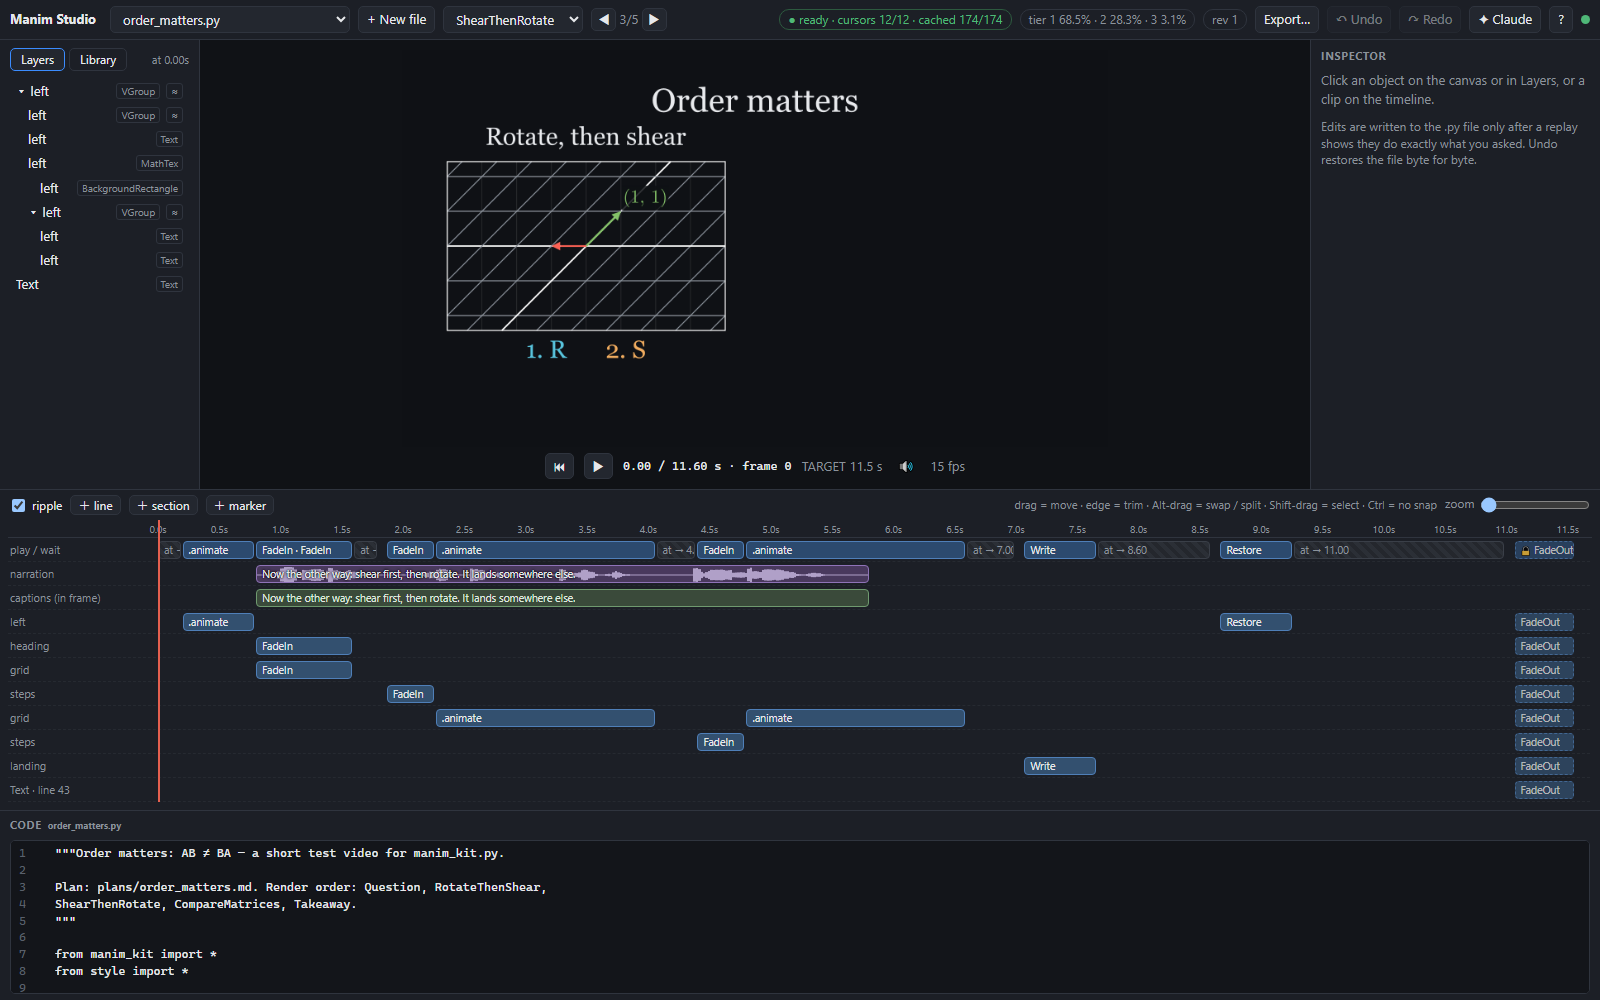
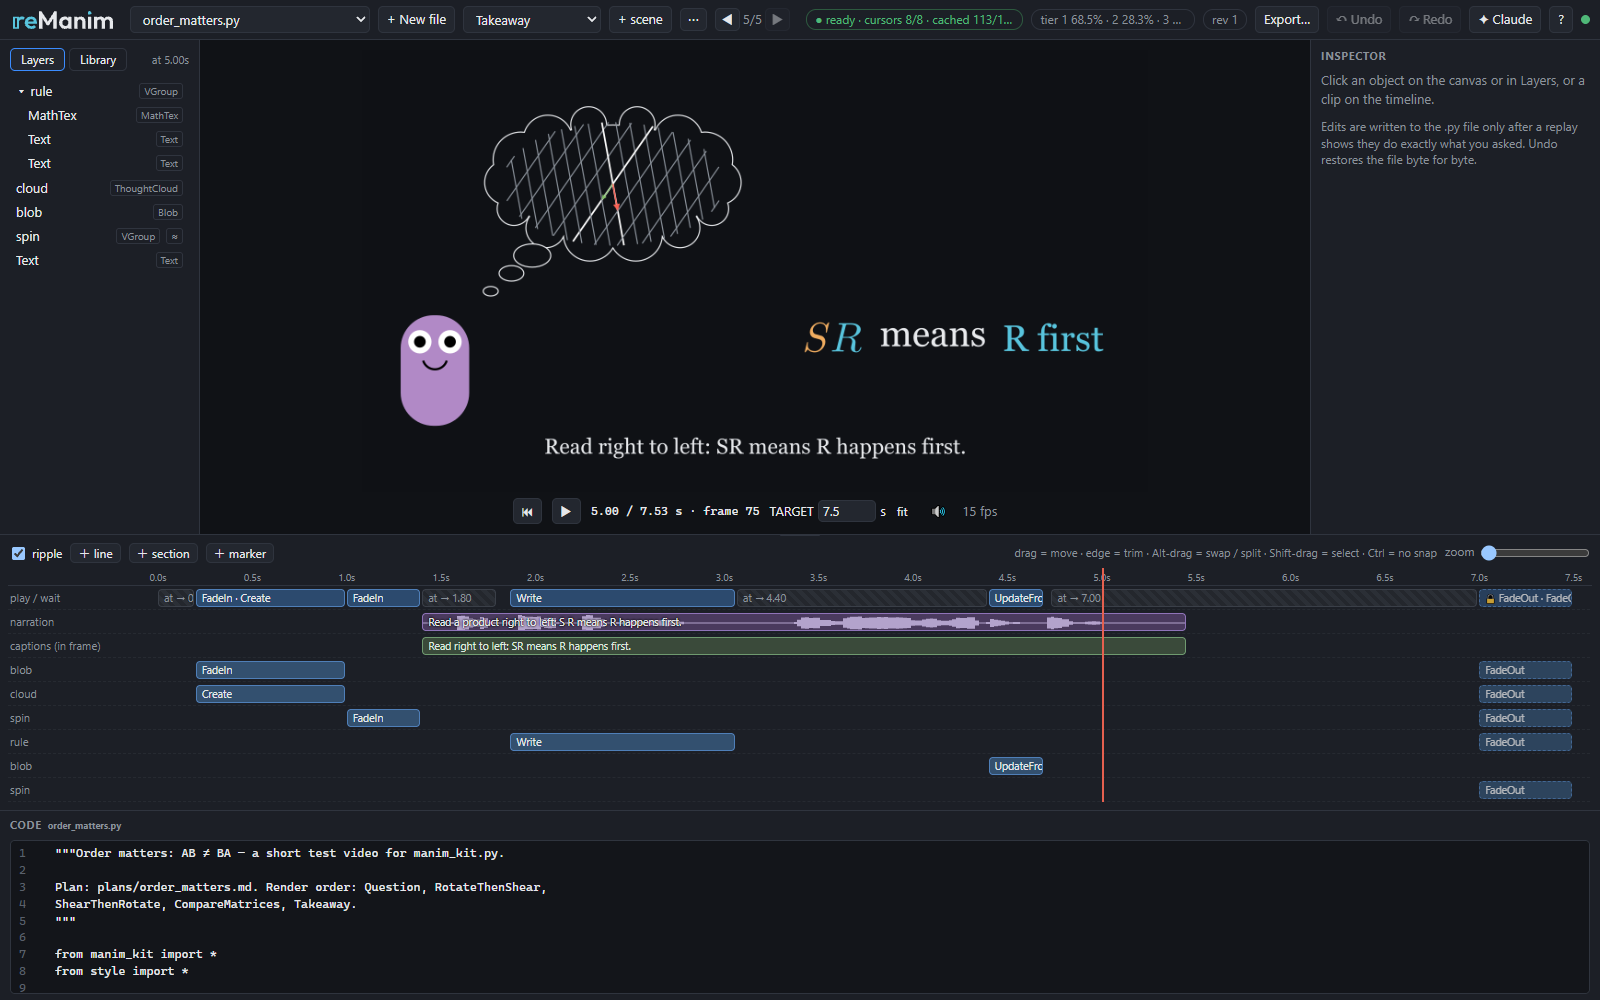
Prepare for a public release: licence, README, no machine names
- LICENSE (MIT) and NOTICE.md: eola_common.py and eola_preview.py stay
  CC BY-NC-SA 4.0 (adapted from 3b1b/videos); the gallery corpus is MIT
  from the Manim Community
- README.md rewritten as the front page: what reManim is, requirements,
  setup from a clone, use, updating, licence
- serve.py reads this PC's tailnet name from studio/data/tailnet_name
  (ignored) instead of the source; without it the server is local only
- studio/hub.json is ignored; studio/hub.example.json is the template
- launch.json: drop the tailnet configuration
- studio/README.md: generic Tailscale steps, the stale "prints a link with
  a token" line fixed, a new screenshot with the reManim name

diff --git a/studio/scripts/serve.py b/studio/scripts/serve.py
@@ -3,14 +3,15 @@
     .venv/Scripts/python studio/scripts/serve.py start | stop | restart | status [--json]
 
 start   builds the UI if web/src is newer than the build, starts the server
-        (port 8770, this PC only, plus the tailnet name through `tailscale serve`
-        with the token kept in studio/data/access_token), and exits once it answers.
+        (port 8770, this PC only; plus the tailnet name in studio/data/tailnet_name,
+        if that file exists, through `tailscale serve`, with the token kept in
+        studio/data/access_token), and exits once it answers.
 stop    ends the server this script started (its pid, checked against what the
         server says about itself), with its engine processes.
 status  one line of JSON: {"running", "ours", "pid", "since", "message"}.
 
-The server's output goes to studio/data/server.log. Follows the hub contract in
-D:/Projects/AI Code Projects/Home Server Hub/docs/APP_CONTRACT.md.
+The server's output goes to studio/data/server.log. Follows the Home Server Hub's
+app contract (studio/hub.example.json shows the entry).
 """
 
 from __future__ import annotations
@@ -32,9 +33,18 @@ PIDFILE = DATA / "server.pid"
 LOG = DATA / "server.log"
 TOKEN = DATA / "access_token"
 PORT = 8770
-# the name `tailscale serve --https=8770` answers to; other machines need the token
-TAILNET_NAME = "your-pc.your-tailnet.ts.net"
+# one line: the name `tailscale serve --https=8770` answers to, e.g.
+# my-pc.tail1234.ts.net (kept out of git); other machines need the token
+TAILNET_FILE = DATA / "tailnet_name"
 HEALTH = f"http://127.0.0.1:{PORT}/api/health"
+
+
+def tailnet_name() -> str | None:
+    try:
+        name = TAILNET_FILE.read_text(encoding="utf-8-sig").strip()
+    except OSError:
+        return None
+    return name or None
 
 
 def say(*a):
@@ -146,8 +156,12 @@ def start() -> int:
     DATA.mkdir(parents=True, exist_ok=True)
     if LOG.exists() and LOG.stat().st_size > 5 * 1024 * 1024:
         LOG.replace(LOG.with_suffix(".log.1"))
-    cmd = [sys.executable, "-m", "studio.server", "--port", str(PORT),
-           "--allow-host", TAILNET_NAME, "--token-file", str(TOKEN)]
+    cmd = [sys.executable, "-m", "studio.server", "--port", str(PORT), "--token-file", str(TOKEN)]
+    name = tailnet_name()
+    if name:
+        cmd += ["--allow-host", name]
+    else:
+        say(f"No {TAILNET_FILE.name} in studio/data: this PC only")
     env = {**os.environ, "PYTHONIOENCODING": "utf-8", "PYTHONUNBUFFERED": "1"}
     env.pop("HUB_RUN", None)
     flags = subprocess.CREATE_NO_WINDOW | subprocess.CREATE_NEW_PROCESS_GROUP

diff --git a/README.md b/README.md
@@ -1,28 +1,133 @@
-# Manim workspace
+<h1><picture><source media="(prefers-color-scheme: dark)" srcset="studio/docs/img/wordmark-dark.svg"><img src="studio/docs/img/wordmark.svg" alt="reManim" height="56"></picture></h1>
 
-Math and explainer animations made with Manim Community Edition 0.22.1, plus
-the tools built around them. Working rules for Claude are in `CLAUDE.md`.
+**A motion editor for [Manim Community Edition](https://www.manim.community/)
+scenes, where the `.py` file stays the source of truth.** You see the
+real Manim frame and a timeline of every `play()` and `wait()`. Drag,
+retime, recolour or add things, and each change is written back into
+your code as a small, readable edit, checked by re-running the scene
+before anything is saved.
 
-## Map
+![reManim with a scene open](studio/docs/img/studio.png)
+
+This repository holds reManim (in [`studio/`](studio/)) and the Manim
+workspace it was built in: a few explainer videos, a toolkit for
+narrated scenes, and the check tools used to make them. Most of it was
+written with [Claude Code](https://claude.com/claude-code), following the
+working rules in [`CLAUDE.md`](CLAUDE.md).
+
+> **Status:** a personal project. It runs on **Windows** only for now
+> (paths, the video tools and the launcher assume it). Expect rough
+> edges, and expect things to change.
+
+## What's here
 
 | Path | What it is |
 |---|---|
-| `*.py` in this folder | The videos: `pythagoras.py`, `order_matters.py`, `gradient_descent.py`, `eola_preview.py` (recreation study), `test_scene.py` (install smoke test) |
-| `style.py` | Shared palette, text sizes, screen regions |
-| `manim_kit.py` | Reusable parts: timed narration, captions, Blob, bubbles, clipped grids |
-| `eola_common.py` | Recreation-only layer (CC BY-NC-SA) |
-| `edge_tts_service.py` | Text-to-speech service for narration |
-| `preview_server.py` | Live preview with code-linked timeline, for AI-driven work |
-| `tools/` | Layout check, frame sheets, audio check, joining, comparison, timeline recording |
-| `plans/` | One plan per video |
-| `studio/` | The reManim GUI project (motion editor). Start with `studio/PLAN.md` |
-| `docs/` | Write-ups of what we learned |
-| `reports/`, `research_notes/` | Research surveys and the notes behind them |
-| `reference/` | Downloaded reference material for the recreation |
-| `media/` | Everything rendered (videos, caches, review frames). Don't wipe it |
+| [`studio/`](studio/) | **reManim**, the editor: a Python server (aiohttp) and a React UI. [Its README](studio/README.md) covers use; [`PLAN.md`](studio/PLAN.md) covers the design |
+| `*.py` in this folder | The videos: `pythagoras.py`, `order_matters.py`, `gradient_descent.py`, `euler_identity.py`, `odd_squares.py`, `eola_preview.py` (a recreation study), `test_scene.py` (install smoke test) |
+| `manim_kit.py` | Reusable parts: an absolute timeline with non-blocking narration and captions, a "Blob" character, speech bubbles, clipped grids for linear maps |
+| `style.py` | Shared palette, text sizes and screen regions |
+| `edge_tts_service.py` | Narration through Microsoft Edge's online neural voices, for [manim-voiceover](https://github.com/ManimCommunity/manim-voiceover) |
+| `preview_server.py` | A live preview that re-renders on save, with a timeline linked to the code |
+| `tools/` | A static layout check, contact sheets of frames, a narration check, joining scenes into one video, side-by-side comparison |
+| `plans/` | One plan per video: goal, maths, beats, narration, colours |
+| `docs/`, `reports/`, `research_notes/` | What we learned, and surveys of Manim tools |
 
-## Why the videos sit in the top folder
+## Requirements
 
-The preview server watches this folder, the tools import `style.py` and
-`manim_kit.py` from it, and Manim writes output to `media/videos/<file name>/`.
-Moving the video files would break all three for no gain.
+- Windows 10 or 11
+- [Python 3.13](https://www.python.org/downloads/)
+- LaTeX: [MiKTeX](https://miktex.org/) (or TeX Live), for `MathTex` and
+  `Tex`. `Text` works without it
+- [Node.js 24](https://nodejs.org/) and npm, to build reManim's UI
+- Optional: [Claude Code](https://claude.com/claude-code), for reManim's
+  ✦ Claude panel; [Tailscale](https://tailscale.com/), to open reManim
+  from your other devices
+
+No separate FFmpeg is needed: Manim's PyAV does the encoding.
+
+## Setup
+
+In PowerShell:
+
+```powershell
+git clone https://github.com/Almer113/remanim.git
+cd remanim
+py -3.13 -m venv .venv
+.venv\Scripts\python -m pip install -r requirements.txt
+```
+
+Build reManim's UI (use `npm.cmd`, since PowerShell's script policy may
+block `npm`):
+
+```powershell
+cd studio\web
+npm.cmd install
+npm.cmd run build
+cd ..\..
+```
+
+Check that Manim and LaTeX work:
+
+```powershell
+.venv\Scripts\python -m manim -ql -s test_scene.py
+```
+
+## Use
+
+**reManim:** start the server from the repository folder, then open
+<http://127.0.0.1:8770>.
+
+```powershell
+.venv\Scripts\python -m studio.server
+```
+
+Or double-click `studio\reManim.cmd` to open it in its own window. The
+[studio README](studio/README.md) covers the screen, editing, export, the
+keyboard and running it in the background.
+
+**The videos:** render with plain Manim, for example:
+
+```powershell
+.venv\Scripts\python -m manim -ql order_matters.py
+```
+
+The output goes to `media/videos/<file>/<quality>/`.
+
+**Narration:** the narrated videos use Edge TTS (voice
+`en-US-AndrewNeural`). It needs no key, but the narration text is sent
+to Microsoft's online speech service. Audio is cached in
+`media/voiceovers/`, so only new or changed lines are sent.
+
+**Tests:**
+
+```powershell
+.venv\Scripts\python -m studio.tests --quick
+```
+
+`--quick` runs the unit tests (about a minute, no LaTeX). With no flag it
+also runs the engine tests (about 10 minutes, needs LaTeX).
+
+## Updating
+
+```powershell
+git pull
+.venv\Scripts\python -m pip install -r requirements.txt
+cd studio\web
+npm.cmd install
+npm.cmd run build
+cd ..\..
+```
+
+Then restart reManim if it's running.
+
+## Licence
+
+[MIT](LICENSE), except two files: `eola_common.py` and `eola_preview.py`
+are adapted from [3Blue1Brown's scene code](https://github.com/3b1b/videos)
+and stay under CC BY-NC-SA 4.0 (non-commercial). The Manim gallery
+scenes in reManim's test corpus are MIT, from the Manim Community. The
+details are in [`NOTICE.md`](NOTICE.md).
+
+reManim is an independent project. It is not affiliated with or endorsed
+by the Manim Community or 3Blue1Brown.

diff --git a/studio/README.md b/studio/README.md
@@ -54,7 +54,7 @@ because the studio is already running), it says so and stops.
 | Option | What it does |
 |---|---|
 | `--port 8771` | Another port |
-| `--allow-host NAME` | Also answer to `NAME`, for example a `tailscale serve` name, to use the studio from another device. The server still listens on 127.0.0.1 only. It prints a link with a token; other machines must open that link once, and the plain address is refused. Never point `tailscale funnel` at it: it runs your scene files. |
+| `--allow-host NAME` | Also answer to `NAME`, for example a `tailscale serve` name, to use the studio from another device. The server still listens on 127.0.0.1 only. Other machines need the access token once (a link with `?token=`, or the token page); the start-up line says where the token is kept, never the token itself. Never point `tailscale funnel` at it: it runs your scene files. |
 | `--app` | Open the studio in its own window (Edge or Chrome app mode) |
 | `--allow-claude-remote` | Let pages opened through an `--allow-host` name use the Claude panel. Off by default, because the panel runs Claude Code on this machine |
 | `--dev` | Let the Vite dev server (`npm run dev`, port 5173) talk to the studio, while working on the UI |
@@ -62,10 +62,11 @@ because the studio is already running), it says so and stops.
 
 ### Running it all the time
 
-On this PC reManim runs permanently in the background, under the
-[Home Server Hub](../../Home%20Server%20Hub/README.md), which starts it at
-logon and can deploy, stop and restart it. Its hub entry is
-[`hub.json`](hub.json); the commands are in `scripts/serve.py`:
+reManim can run permanently in the background. On the author's PC it runs
+under a small personal launcher (the "Home Server Hub"), which starts it at
+logon and can deploy, stop and restart it. Its entry is `studio/hub.json`,
+kept out of git; [`hub.example.json`](hub.example.json) is the template.
+The commands are in `scripts/serve.py`, and work without the launcher:
 
 ```bash
 .venv/Scripts/python studio/scripts/serve.py start     # or stop, restart, status
@@ -73,13 +74,18 @@ logon and can deploy, stop and restart it. Its hub entry is
 
 `start` builds the UI if `web/src` is newer than the build, then starts
 the server with no window on port 8770, with
-`--allow-host your-pc.your-tailnet.ts.net --token-file studio/data/access_token`.
-The pid file, the log (`server.log`) and the token are in `studio/data/`,
+`--token-file studio/data/access_token`. To reach it from your other
+devices through [Tailscale](https://tailscale.com/), put this machine's
+tailnet name (for example `my-pc.tail1234.ts.net`) on one line in
+`studio/data/tailnet_name` and run
+`tailscale serve --bg --https=8770 http://127.0.0.1:8770`;
+`start` then adds `--allow-host` with that name. The pid file, the log
+(`server.log`), the token and the tailnet name are in `studio/data/`,
 which git ignores. Restart it after changing server code.
 
 About the token:
 - The log never contains it. `server.log` only names the file it's in,
-  because the Hub shows that log to anyone on the tailnet.
+  because a launcher may show that log to anyone on the tailnet.
 - The token page sends it with a form post, so it doesn't end up in
   browser history.
 - If you edit the file by hand, use at least 8 printable ASCII
@@ -93,14 +99,13 @@ About the token:
 | From | Address |
 |---|---|
 | This PC | <http://localhost:8770/> |
-| Tailnet (HTTPS, through `tailscale serve --https=8770`) | <https://your-pc.your-tailnet.ts.net:8770/>. The first visit asks for the token in `studio/data/access_token`; a cookie keeps it for 400 days |
+| Tailnet (HTTPS, through `tailscale serve --https=8770`) | `https://<tailnet name>:8770/`. The first visit asks for the token in `studio/data/access_token`; a cookie keeps it for 400 days |
 | Home network | Not available: the server listens on 127.0.0.1 only, since opening a file runs it. Use the tailnet address, which also works at home |
 
 **Installing it as an app:** open the tailnet address (or
 `http://localhost:8770/` on this PC) in Chrome or Edge, then use the
 install button in the address bar. On an iPhone: Safari, Share, Add to Home
-Screen. The icons and the wordmark come from the logo kit in
-`Logo Builder/projects/remanim/exports/` (copied into `web/public/`).
+Screen. The icons and the wordmark are in `web/public/` and `docs/img/`.
 
 ## The screen
 
@@ -270,7 +275,7 @@ Run the checks:
 .venv/Scripts/python -m studio.tests --quick
 ```
 
-`--quick` runs the unit tests (seconds, no LaTeX). With no flag it
+`--quick` runs the unit tests (about a minute, no LaTeX). With no flag it
 also runs the engine tests (about 8 minutes). `--all` adds the corpus run
 and the benches (about 1.5 hours). Don't run them while the studio
 server is busy: they share `media/Tex_studio`.

diff --git a/NOTICE.md b/NOTICE.md
@@ -1,0 +1,19 @@
+# Licences in this repository
+
+Everything here is under the MIT License in [`LICENSE`](LICENSE), except
+the files below, which keep their own licences.
+
+| Files | Licence | Source |
+|---|---|---|
+| `eola_common.py`, `eola_preview.py` | [CC BY-NC-SA 4.0](https://creativecommons.org/licenses/by-nc-sa/4.0/): non-commercial use only, credit, share alike | Adapted from 3Blue1Brown's scene code, [3b1b/videos](https://github.com/3b1b/videos) (`_2016/eola/chapter0.py`). A recreation study; the narration is original and the characters, logo and music are not 3Blue1Brown's |
+| `studio/tests/corpus/gallery/*.py` | MIT, Copyright (c) 2018-2024 The Manim Community Developers | The Manim Community example gallery (`docs/source/examples.rst`, ManimCommunity/manim v0.22.1), used unchanged as test input |
+
+Anything that imports `eola_common.py` takes on its CC BY-NC-SA licence.
+Nothing else in the repository imports it.
+
+The web UI's npm dependencies (React, Vite and their dependencies) are
+installed by `npm install` and keep their own licences (MIT, Apache-2.0,
+BSD, ISC, MPL-2.0); none are committed here.
+
+reManim is an independent project. It is not affiliated with or endorsed
+by the Manim Community or 3Blue1Brown.
